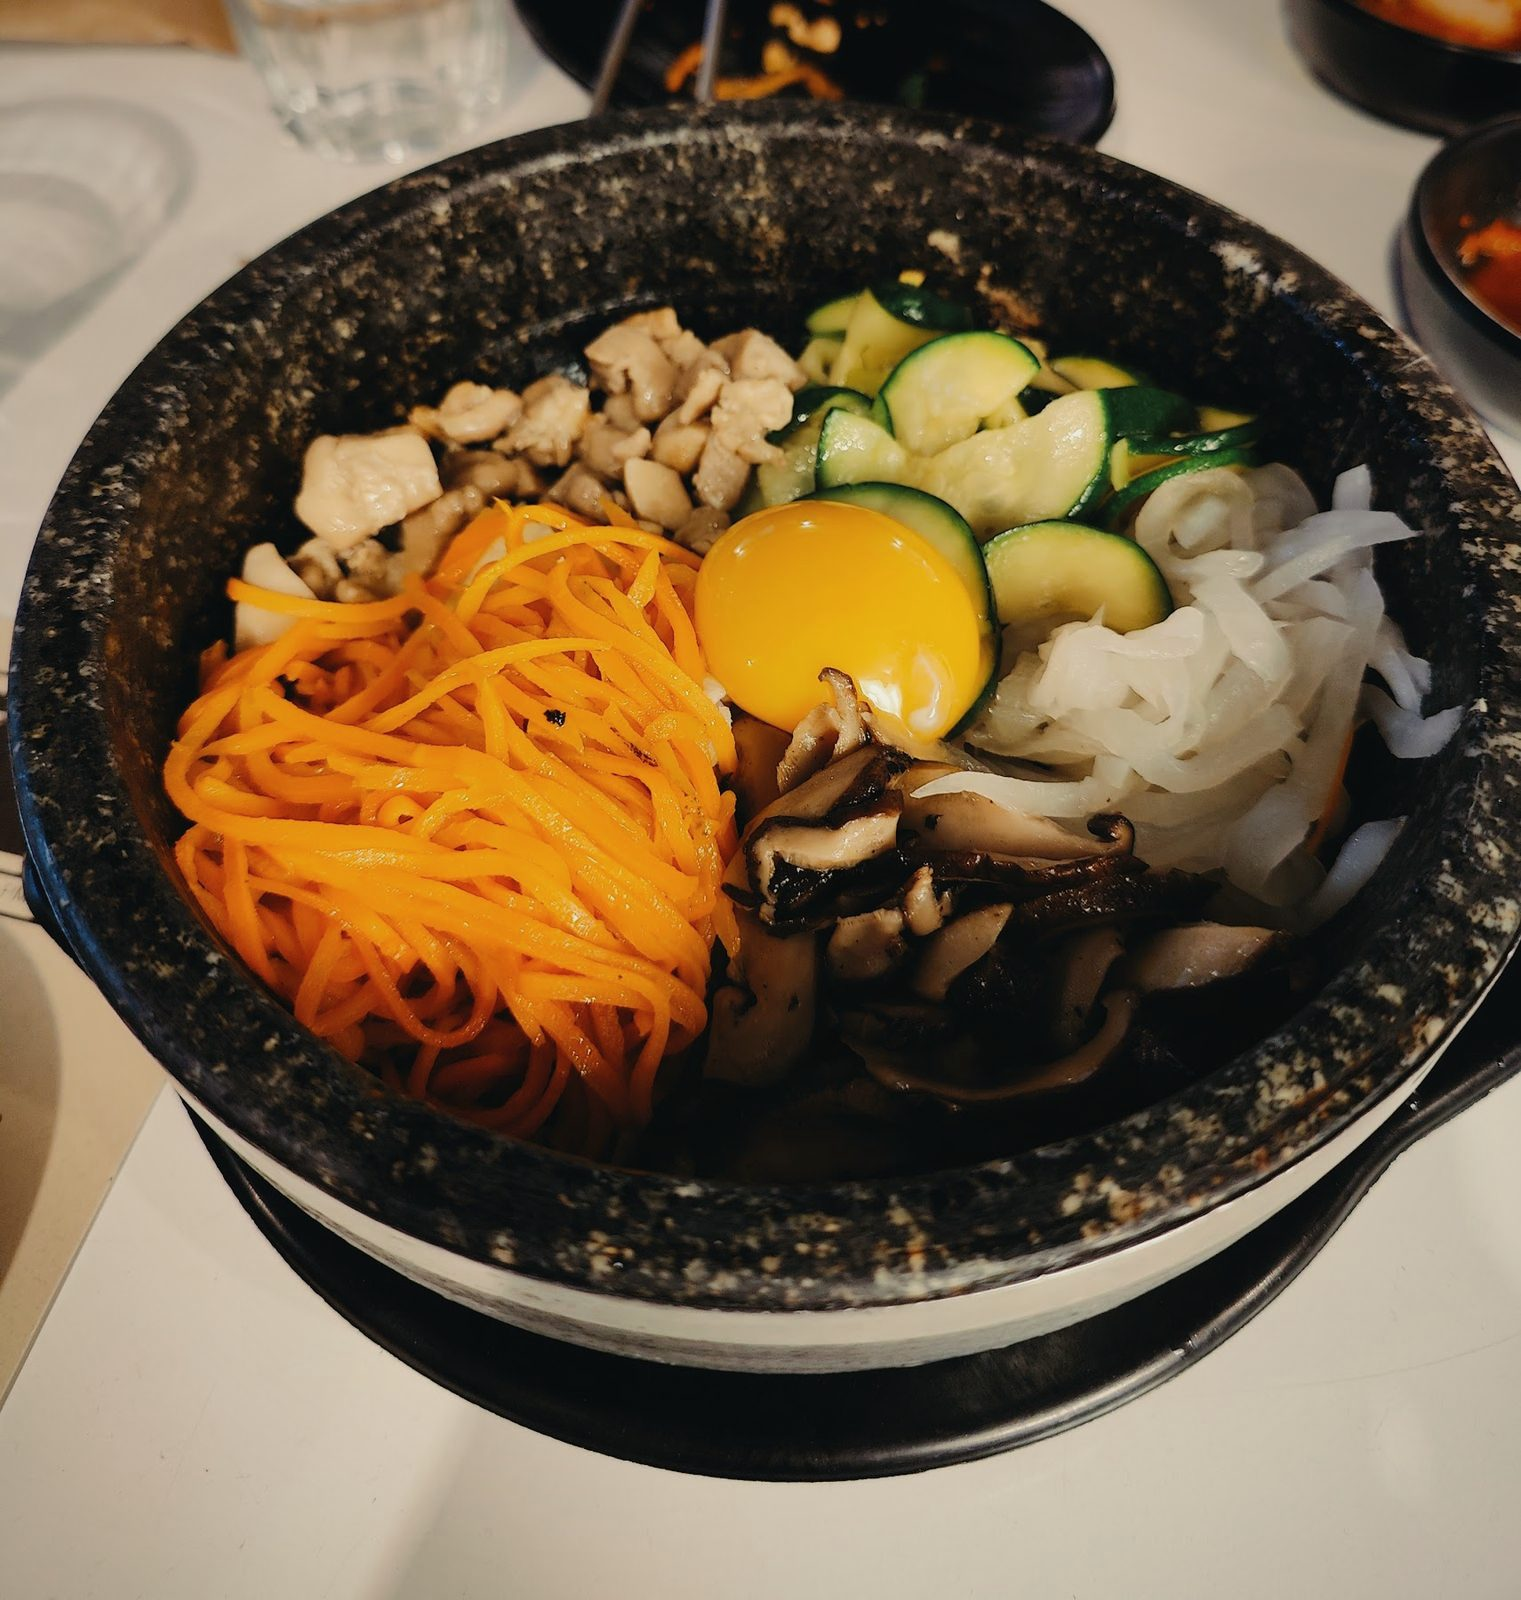
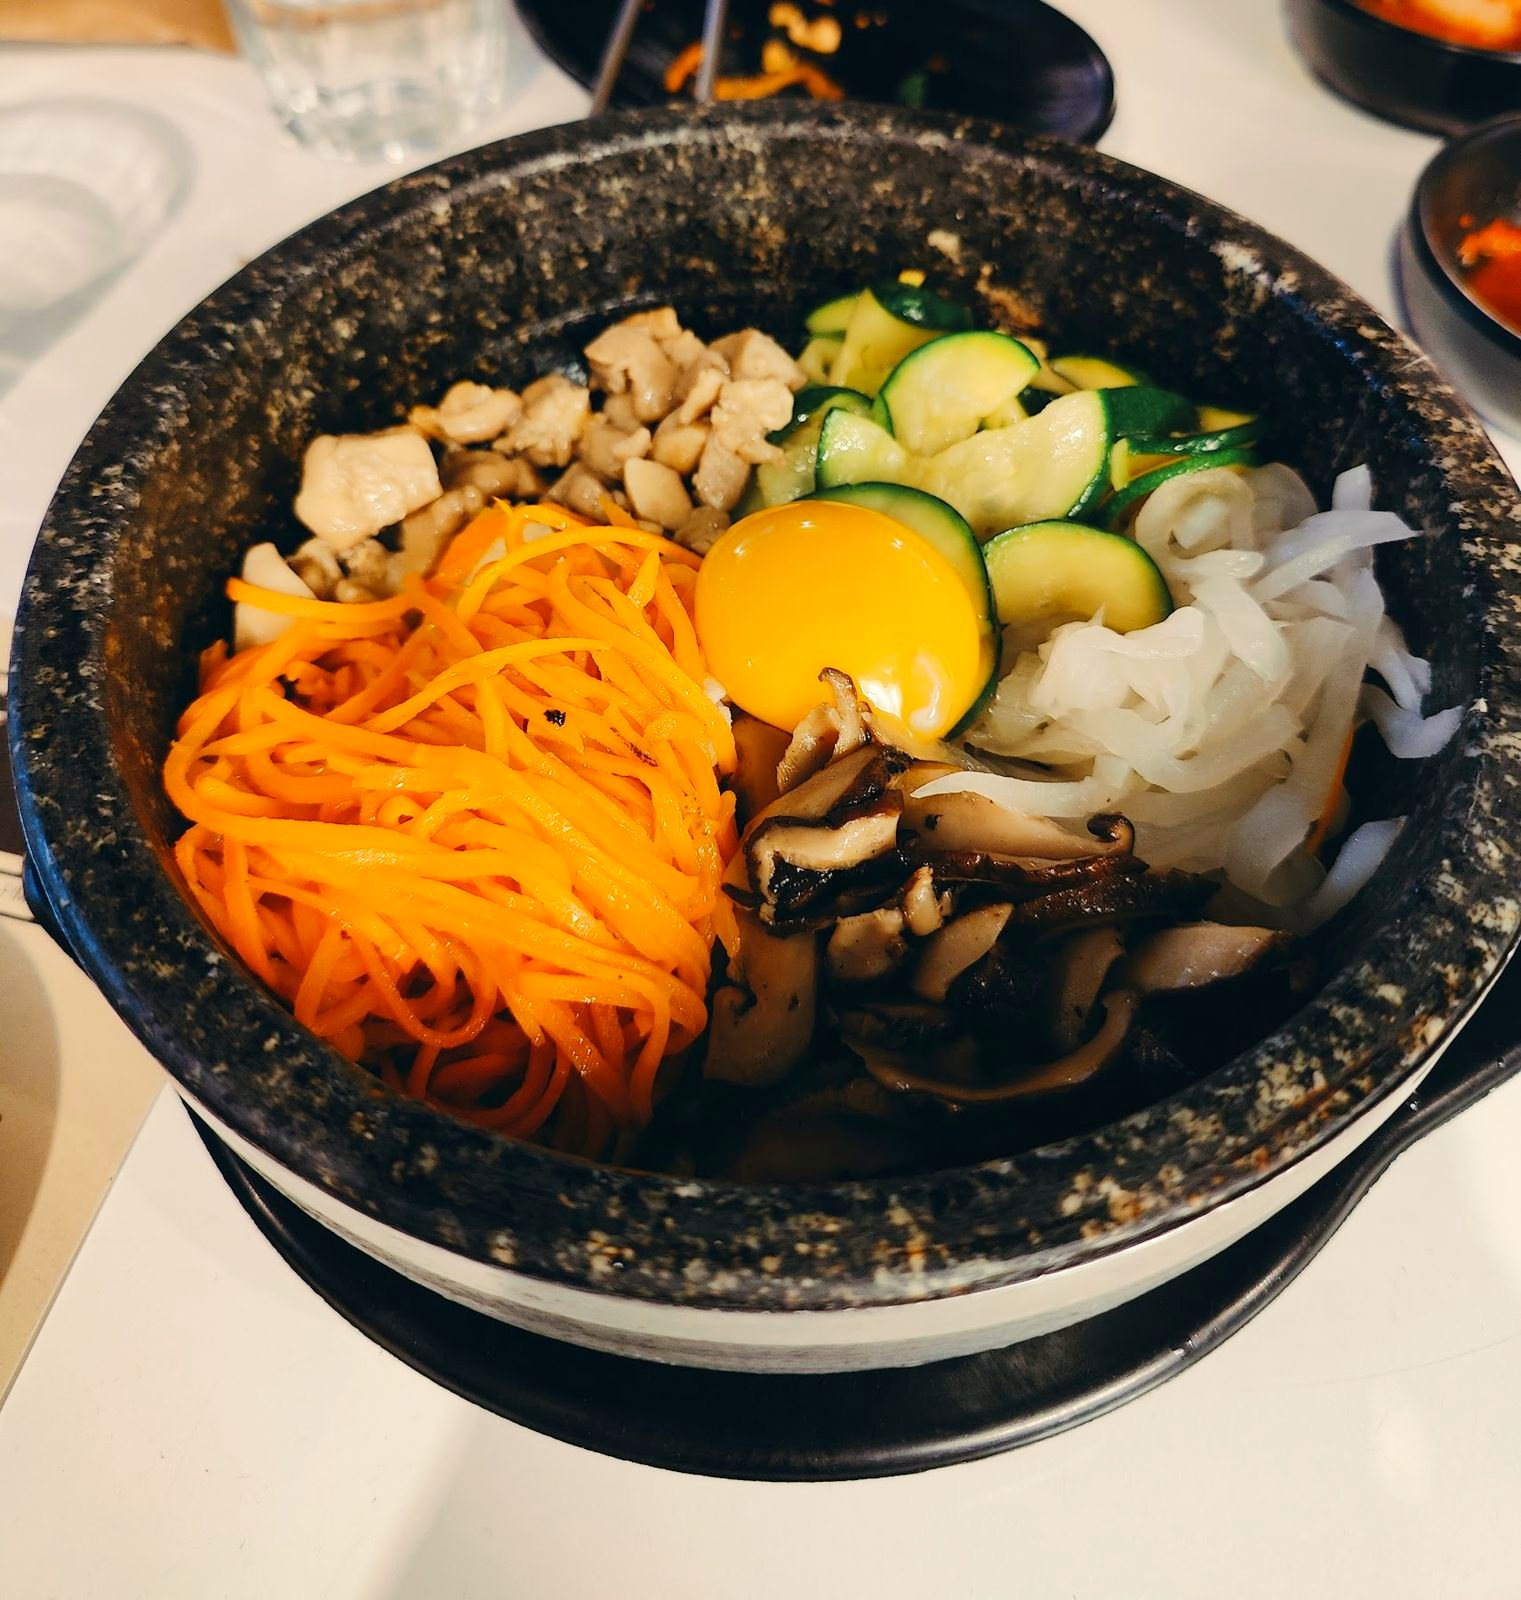
Damso: KYŌ-style hero (vivid photo, bold sans headline, live pill, mono line, two buttons), steam no longer bends around the cursor, dot-burst click
Claude-Session: https://claude.ai/code/session_01NDAfGDXYjDejBkjwsjkdqo

diff --git a/damso/app.js b/damso/app.js
@@ -6,6 +6,25 @@ const MOB = () => innerWidth < 900;
 const TZ = "Europe/Amsterdam";
 const TEST = /[?&]test/.test(location.search);
 
+/* ---------- KYŌ-style click: a little ring of dots on every click, links too ---------- */
+if (!reduce) (() => {
+  const cv = document.createElement("canvas"); cv.id = "burst"; cv.setAttribute("aria-hidden", "true");
+  const g = cv.getContext("2d"); let dpr = 1, parts = [], running = false;
+  const size = () => { dpr = Math.min(2, devicePixelRatio || 1); cv.width = innerWidth * dpr; cv.height = innerHeight * dpr; };
+  addEventListener("DOMContentLoaded", () => { document.body.appendChild(cv); size(); }); if (document.body) { document.body.appendChild(cv); size(); }
+  addEventListener("resize", size);
+  function frame(t) {
+    g.clearRect(0, 0, cv.width, cv.height); parts = parts.filter(p => t - p.t0 < p.life);
+    for (const p of parts) { const k = (t - p.t0) / p.life, e = 1 - Math.pow(1 - k, 3), r = (5 + p.reach * e) * dpr;
+      g.globalAlpha = 1 - k * k; g.fillStyle = p.c; g.beginPath(); g.arc(p.x * dpr + Math.cos(p.a) * r, p.y * dpr + Math.sin(p.a) * r, Math.max(0, p.s * (1 - k) * dpr), 0, 6.283); g.fill(); }
+    if (parts.length) requestAnimationFrame(frame); else { running = false; g.clearRect(0, 0, cv.width, cv.height); }
+  }
+  addEventListener("pointerdown", e => { if (e.button !== 0) return;
+    const c = "#e2412e", n = 9, t0 = performance.now(), off = Math.random() * 6.283;
+    for (let i = 0; i < n; i++) parts.push({ x: e.clientX, y: e.clientY, c, a: off + i / n * 6.283 + (Math.random() - .5) * .25, reach: 20 + Math.random() * 10, s: 2.5 + Math.random() * .8, t0, life: 640 + Math.random() * 160 });
+    if (!running) { running = true; requestAnimationFrame(frame); } }, { passive: true, capture: true });
+})();
+
 /* ---------- language ---------- */
 const LANG = (() => {
   const q = new URLSearchParams(location.search).get("lang");
@@ -171,7 +190,7 @@ if (!reduce) {
   gsap.fromTo(".hero-img", { clipPath: `circle(${MOB() ? 28 : 16}% at ${C})` }, { clipPath: `circle(150% at ${C})`, duration: 2.1, ease: "expo.inOut", delay: .2 });
   gsap.fromTo(".hero-img img", { scale: 1.35, rotate: -7 }, { scale: 1.04, rotate: 0, duration: 2.8, ease: "expo.inOut", delay: .2 });
   gsap.from(".hero h1 .ln > *", { yPercent: 110, duration: 1.5, stagger: .12, ease: "expo.out", delay: 1.55 });
-  gsap.from(".hero-in .lbl, .hero-side .hs-row, .nav", { y: 20, autoAlpha: 0, duration: 1.2, stagger: .07, ease: "expo.out", delay: 1.85 });
+  gsap.from(".hero-pill, .hero-sub, .hero-btns, .nav", { y: 20, autoAlpha: 0, duration: 1.2, stagger: .08, ease: "expo.out", delay: 1.8 });
   gsap.to(".hero-img img", { yPercent: 7, ease: "none", scrollTrigger: { trigger: ".hero", start: "top top", end: "bottom top", scrub: true } });
 }
 ScrollTrigger.create({ trigger: ".hero", start: "bottom 80px", end: "max", toggleClass: { targets: "#nav", className: "solid" } });
@@ -258,7 +277,6 @@ addEventListener("load", () => ScrollTrigger.refresh());
       vec2 uv = gl_FragCoord.xy / R, asp = vec2(R.x/R.y, 1.);
       vec2 p = uv * asp;
       vec2 m = M * asp, d = p - m; float md = length(d);
-      p += normalize(d + 1e-4) * .16 * exp(-md*md*9.);
       float t = T * .16;
       vec2 q = vec2(fbm(p*1.7 + vec2(0., -t*1.6)), fbm(p*1.7 + vec2(4.3, -t*1.3)));
       float s = fbm(p*2.3 + q*2.2 + vec2(t*.2, -t*2.4));

diff --git a/damso/index.html b/damso/index.html
@@ -10,8 +10,8 @@
 <link rel="icon" href="img/mark.svg" type="image/svg+xml">
 <link rel="preload" href="fonts/instrument-serif-latin-400-normal.woff2" as="font" type="font/woff2" crossorigin>
 <link rel="preload" href="fonts/instrument-serif-latin-400-italic.woff2" as="font" type="font/woff2" crossorigin>
-<link rel="preload" as="image" href="img/g/hero.jpg">
-<link rel="stylesheet" href="style.css?v=22">
+<link rel="preload" as="image" href="img/g/hero.webp" type="image/webp">
+<link rel="stylesheet" href="style.css?v=23">
 </head>
 <body>
 
@@ -30,16 +30,13 @@
 
   <!-- hero -->
   <section class="hero" aria-label="Damso">
-    <div class="hero-img"><img src="img/g/hero.jpg" alt="Dolsot bibimbap in a hot stone bowl at Damso" fetchpriority="high"><canvas id="steam" aria-hidden="true"></canvas></div>
+    <div class="hero-img"><picture><source type="image/webp" srcset="img/g/hero.webp"><img src="img/g/hero.jpg" alt="Dolsot bibimbap in a hot stone bowl at Damso" fetchpriority="high"></picture><canvas id="steam" aria-hidden="true"></canvas></div>
     <div class="hero-in">
-      <p class="lbl"><span class="kr">담소</span><i></i><span data-nl="Koreaanse keuken · Amstelveen · sinds 2008">Korean kitchen · Amstelveen · Est. 2008</span></p>
-      <h1><span class="ln"><span data-nl="Koreaans koken">Korean cooking</span></span><span class="ln"><em data-nl="in het oude dorp.">in the old village.</em></span></h1>
+      <p class="hero-pill"><i class="dot" id="dot"></i><b id="now">…</b><span class="sep">·</span><span id="now-sub"></span></p>
+      <h1><span class="ln"><span data-nl="Koreaanse keuken">Korean kitchen</span></span><span class="ln"><span class="dim" data-nl="sinds 2008.">since 2008.</span></span></h1>
+      <p class="hero-sub" data-nl="Kom langs op Dorpsstraat 88, in het oude dorp van Amstelveen. Dolsot bibimbap, pajeon en Koreaanse klassiekers, sinds 2008.">Come by Dorpsstraat 88, in the old village of Amstelveen. Dolsot bibimbap, pajeon and Korean classics, since 2008.</p>
+      <div class="hero-btns"><a class="hb solid" href="#reserve"><span data-nl="Reserveer een tafel">Reserve a table</span></a><a class="hb" href="#table"><span data-nl="Bekijk de gerechten">See the dishes</span> <i>&rarr;</i></a></div>
     </div>
-    <aside class="hero-side" aria-label="Today">
-      <p class="hs-row"><i class="dot" id="dot"></i><span><b id="now">…</b><small id="now-sub"></small></span></p>
-      <a class="hs-row" href="#visit"><span><b>Dorpsstraat 88</b><small>1182 JG Amstelveen</small></span></a>
-      <a class="hs-row hs-go" href="#reserve"><span><b data-nl="Reserveer een tafel">Reserve a table</b><small data-nl="Kies je plek in de zaal">Choose your spot in the room</small></span><em>&rarr;</em></a>
-    </aside>
     <p class="scroll-cue" aria-hidden="true"><i></i></p>
   </section>
 
@@ -175,6 +172,6 @@
 <script src="vendor/gsap.min.js"></script>
 <script src="vendor/ScrollTrigger.min.js"></script>
 <script src="vendor/lenis.min.js"></script>
-<script src="app.js?v=21"></script>
+<script src="app.js?v=23"></script>
 </body>
 </html>

diff --git a/damso/style.css b/damso/style.css
@@ -352,3 +352,31 @@ h2 em { color: var(--brass); }
   body.in-cat .mbar { transform: translateY(140%); }
 }
 @media (prefers-reduced-motion: reduce) { *, *::before, *::after { animation: none !important; transition: none !important; } .intro-t .w { opacity: 1; } .rv-img { clip-path: none; } }
+
+/* ===== hero, KYŌ-style: vivid photo, bold sans, a live pill, two clear buttons ===== */
+@font-face { font-family: "Inter Tight"; font-weight: 800; src: url(fonts/inter-tight-latin-800-normal.woff2) format("woff2"); font-display: swap; }
+@font-face { font-family: "JetBrains Mono"; font-weight: 400; src: url(fonts/jetbrains-mono-latin-400-normal.woff2) format("woff2"); font-display: swap; }
+.hero-img picture { display: block; width: 100%; height: 100%; }
+.hero-img::after { background: linear-gradient(to top, rgba(13, 11, 10, .8) 0, rgba(13, 11, 10, .2) 45%, rgba(13, 11, 10, 0) 65%), linear-gradient(to right, rgba(13, 11, 10, .62), rgba(13, 11, 10, .1) 60%, rgba(13, 11, 10, 0)), linear-gradient(to bottom, rgba(13, 11, 10, .45), rgba(13, 11, 10, 0) 20%); }
+.hero-in { top: 50%; bottom: auto; transform: translateY(-46%); max-width: min(980px, 86vw); }
+.hero-pill { display: inline-flex; align-items: center; gap: 10px; padding: 11px 18px; border-radius: 99px; background: var(--bone); color: var(--ink); font: 400 12px/1 "JetBrains Mono", monospace; letter-spacing: .12em; text-transform: uppercase; margin-bottom: 28px; }
+.hero-pill b { font-weight: 400; } .hero-pill .sep { opacity: .5; }
+.hero-pill .dot { box-shadow: none; }
+.hero h1 { font: 800 clamp(58px, 8.4vw, 156px)/.86 "Inter Tight", var(--sans); letter-spacing: -.045em; text-transform: uppercase; color: #fff; }
+.hero h1 .dim { color: #d8ccb6; }
+.hero-sub { margin-top: 28px; max-width: 34ch; font: 400 clamp(15px, 1.25vw, 19px)/1.55 "JetBrains Mono", monospace; color: rgba(255, 255, 255, .88); }
+.hero-btns { display: flex; flex-wrap: wrap; gap: 12px; margin-top: 34px; }
+.hb { display: inline-flex; align-items: center; gap: 10px; padding: 17px 26px; border-radius: 99px; font: 700 15px/1 var(--sans); color: #fff; box-shadow: inset 0 0 0 1.5px rgba(255, 255, 255, .85); transition: background .35s, color .35s, box-shadow .35s; }
+.hb i { font-style: normal; transition: transform .5s var(--ease); }
+.hb:hover i { transform: translateX(4px); }
+.hb.solid { background: var(--bone); color: var(--ink); box-shadow: none; }
+.hb.solid:hover { background: var(--seal); color: #fff; }
+.hb:not(.solid):hover { background: rgba(255, 255, 255, .12); }
+#burst { position: fixed; inset: 0; width: 100%; height: 100%; pointer-events: none; z-index: 10000; }
+@media (max-width: 899px) {
+  .hero-in { top: auto; bottom: 40px; transform: none; }
+  .hero h1 { font-size: clamp(46px, 13vw, 72px); }
+  .hero-pill { font-size: 10.5px; padding: 9px 14px; margin-bottom: 20px; }
+  .hero-sub { font-size: 14px; margin-top: 18px; }
+  .hero-btns { margin-top: 24px; } .hb { padding: 15px 20px; font-size: 14px; }
+}
